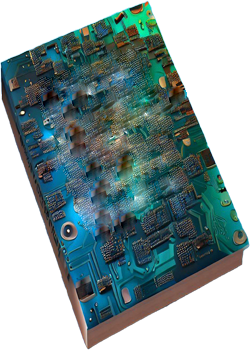
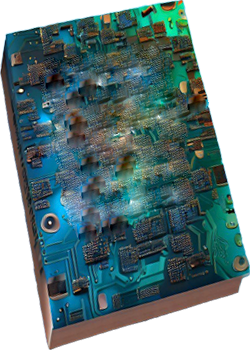
书籍封面调整之二

diff --git a/docs/stylesheets/neoteroi.css b/docs/stylesheets/neoteroi.css
@@ -1340,7 +1340,8 @@
     font-size: 1rem;
     font-weight: bold;
     margin: 4px 0 8px 0;
-    line-height: 22px
+    line-height: 22px;
+    text-align: center;
 }
 
 .nt-card-content {

diff --git a/docs/index.md b/docs/index.md
@@ -32,24 +32,43 @@
 
 ::cards::
 
-- title: 你好！希腊神话与传说
-  content: 。
-  image: ./assets/cover/GreekAndRomanMythology.png
+- title: 你好！希腊神话
+  content: 
+  image: ./assets/cover/greek_mythology_conver.png
   url: {{ web.domain }}:{{web.port_prompt}}
 
-- title: 你好！数据结构
-  content: 支持多种语言实现，代码皆可一键运行。
-  image: ./assets/cover/data_struct_cover.png
+- title: 你好！伊利亚特
+  content: 
+  image: ./assets/cover/Iliad_cover.png
   url: {{ web.domain_krahets }}
 
-- title: 你好！芯片设计
-  content: 把自己看成是计算机结构设计师，而不是计算机程序员。。
-  image: ./assets/cover/chip_design_cover.png
+- title: 你好！奥德修纪
+  content: 
+  image: ./assets/cover/odyssey_cover.png
   url: {{ web.domain }}:{{web.port_prompt}}
 
 ::/cards::
 
 ## 你好！数学
+
+::cards::
+
+- title: 你好！高等数学
+  content: 
+  image: ./assets/cover/advanced_mathematics_cover.png
+  url: {{ web.domain }}:{{web.port_prompt}}
+
+- title: 你好！线性代数
+  content: 
+  image: ./assets/cover/linear_algebra_cover.png
+  url: {{ web.domain_krahets }}
+
+- title: 你好！概率统计
+  content: 
+  image: ./assets/cover/mathematical_statistics_cover.png
+  url: {{ web.domain }}:{{web.port_prompt}}
+
+::/cards::
 
 ## 你好！英语
 
